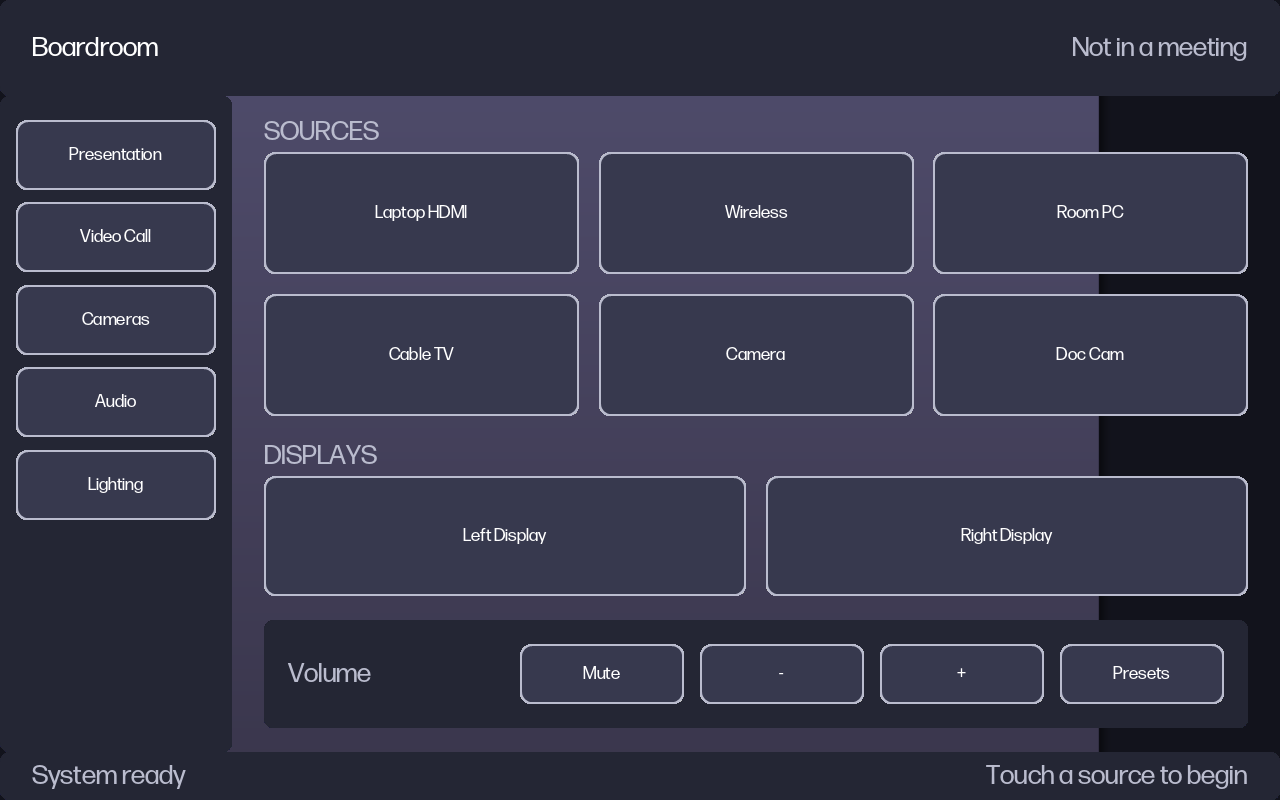
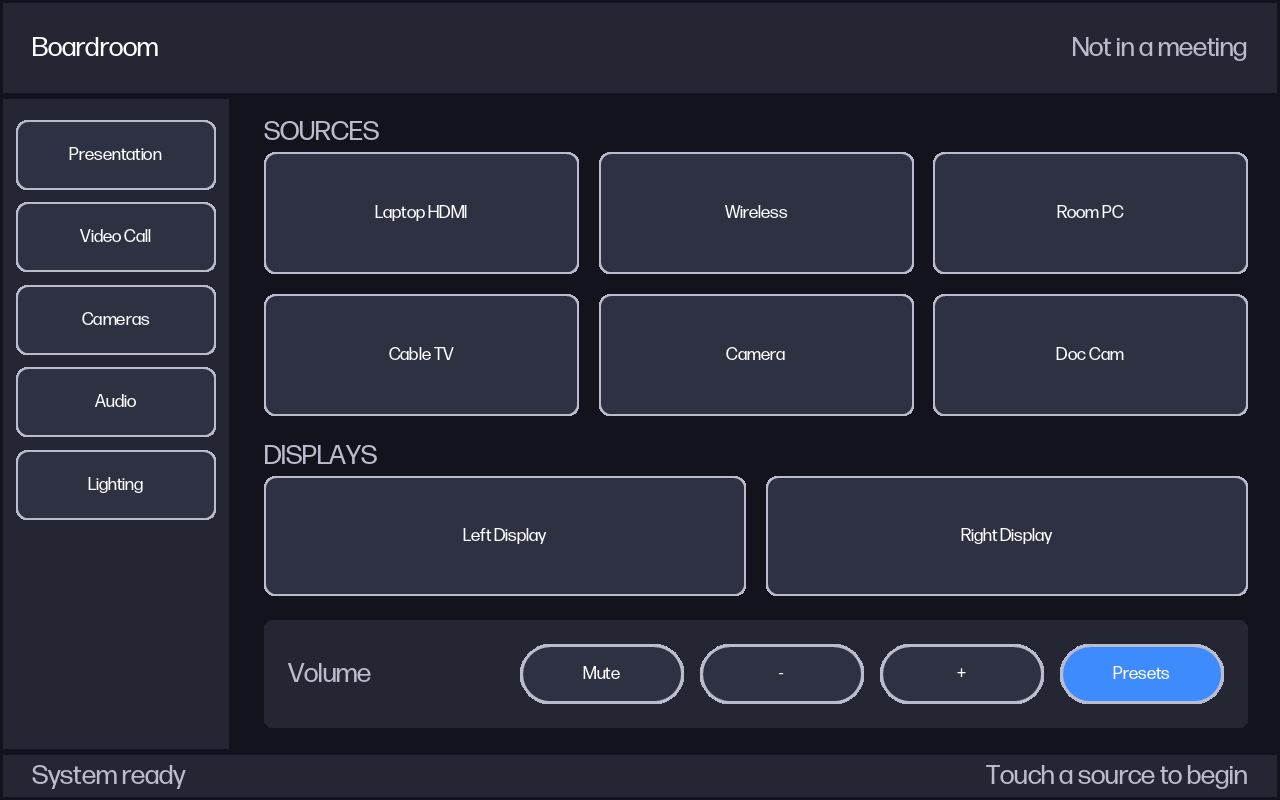
fix: colour fidelity in generated panels - three separate bugs
The generated panel came out uncoloured. Three causes, and the first was mine
from two commits ago.

1. REGRESSION: plan() still looked fills up by the old (type, rect) key. When
   the fill join moved to (page id, control id) only layout() was updated, so
   every op in every plan carried fill=None and border=None. Nothing caught it:
   the preview renders from layout(), and the tests only exercised layout().
   tests/test_spec.py now has four plan-level tests, including one asserting the
   worked example's accent colour survives into the plan.

2. Set-GdlBorder hit the same null-vs-missing trap Set-GdlColour already had - a
   button's own borderField is null because the border lives on its state - so
   it reported "no borderField on PBButton" for every button and set none. Now
   clones a reference from wherever one exists, and pushes the border onto the
   states too.

3. The generated page showed a stray purple band that was not in the spec.
   Clearing the cloned page's <TLPImageID> was not enough: backgroundImageField
   is a SEPARATE reference to the donor's background image, and Build
   re-rasterises fill + image together into a new page asset, so the donor's
   artwork came back looking like a tint. Cleared as well.

Diagnosing (3) also confirmed something documented but not previously seen here:
Build auto-creates a PBPopupPageReference per modal popup on every page
(docs/gdl-format.md section 2 item 5). Six appeared on the generated page. They
[…]

Changed region(s): [[0.1562, 0.0938, 0.9688, 0.9375]]

diff --git a/tests/test_spec.py b/tests/test_spec.py
@@ -183,6 +183,43 @@ class TestCheck(unittest.TestCase):
         self.assertEqual(p.check(), [])
 
 
+class TestBuildPlan(unittest.TestCase):
+    """The plan is what the Windows applier consumes, so it needs its own tests.
+
+    layout() and plan() look fills up by the same key, and when that key changed
+    only layout() was updated - so every plan carried fill=None and every
+    generated panel came out uncoloured. Nothing caught it, because the preview
+    renders from layout() and the tests only exercised layout().
+    """
+
+    def test_fills_reach_the_plan(self):
+        p = _spec([{'kind': 'panel', 'rect': [0, 0, 100, 50], 'fill': '#242634'}])
+        op = p.plan()['pages'][0]['controls'][0]
+        self.assertEqual(op['fill'], 0xFF242634)
+
+    def test_borders_reach_the_plan(self):
+        p = _spec([{'kind': 'panel', 'rect': [0, 0, 100, 50],
+                    'fill': '#242634', 'border': 'capsule'}])
+        op = p.plan()['pages'][0]['controls'][0]
+        self.assertEqual(op['border'], '2D Capsule')
+
+    def test_text_colour_reaches_the_plan(self):
+        p = _spec([{'kind': 'label', 'rect': [0, 0, 100, 50],
+                    'text': 'x', 'color': '#FF0000'}])
+        op = p.plan()['pages'][0]['controls'][0]
+        self.assertEqual(op['text_color'], 0xFFFF0000)
+
+    def test_the_worked_example_carries_its_colours_into_the_plan(self):
+        import os
+        here = os.path.dirname(os.path.dirname(os.path.abspath(__file__)))
+        p = Panel.load(os.path.join(here, 'examples', 'panel.json'))
+        ops = p.plan()['pages'][0]['controls']
+        filled = [o for o in ops if o['fill']]
+        self.assertGreater(len(filled), 15, 'most controls in the example are filled')
+        accent = [o for o in ops if o['fields']['nameField'] == 'Presets']
+        self.assertEqual(accent[0]['fill'], 0xFF3D8BFD, 'the accent colour must survive')
+
+
 class TestExtronRules(unittest.TestCase):
     """Extron's own numeric standards. See docs/design-rules.md for provenance."""
 

diff --git a/gdl/spec.py b/gdl/spec.py
@@ -378,8 +378,12 @@ class Panel:
         for pg in model['Pages']:
             controls = []
             for c in pg['Controls']:
-                rect = (c['Left'], c['Top'], c['Width'], c['Height'])
-                spec = fills.get((c['__type'], rect)) or {}
+                # Keyed the way layout() emits and compose.py looks up:
+                # (page id, control id). This used to key on (type, rect) and
+                # silently produced fill=None on every op after the join
+                # changed - which is exactly the sort of break a plan-level
+                # test catches and an end-to-end render does not.
+                spec = fills.get((pg['ID'], c['ID'])) or {}
                 border = (spec.get('border') or {}).get('resource')
                 controls.append({
                     'op': 'clone-control',
